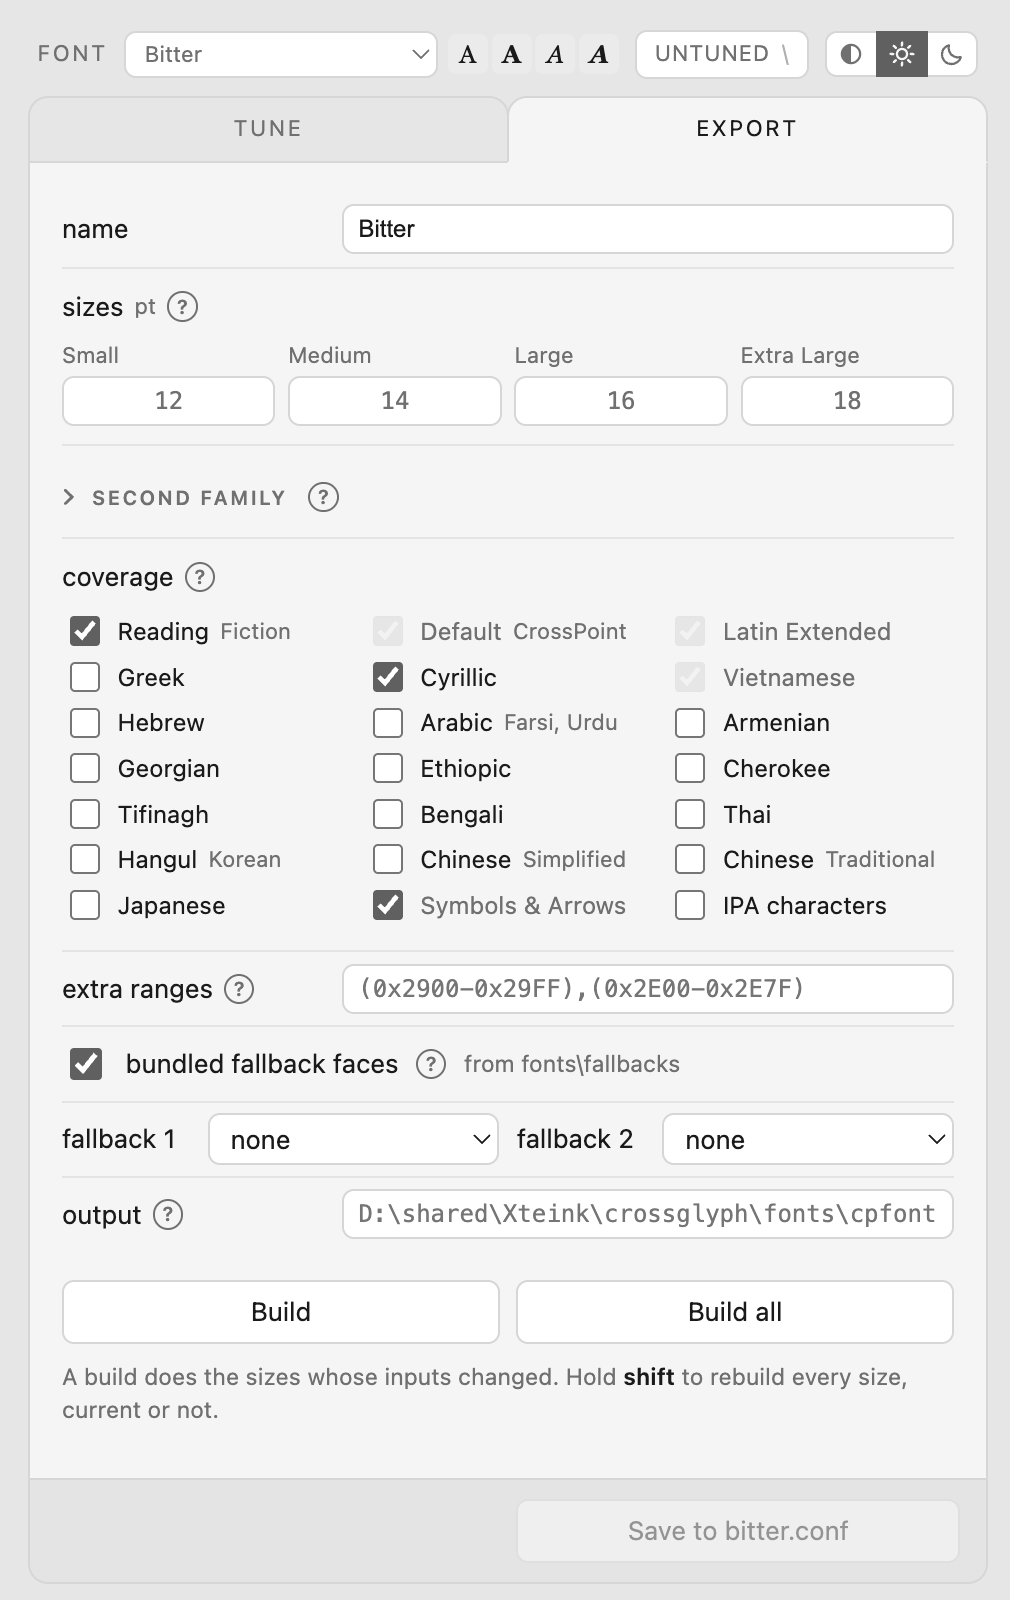
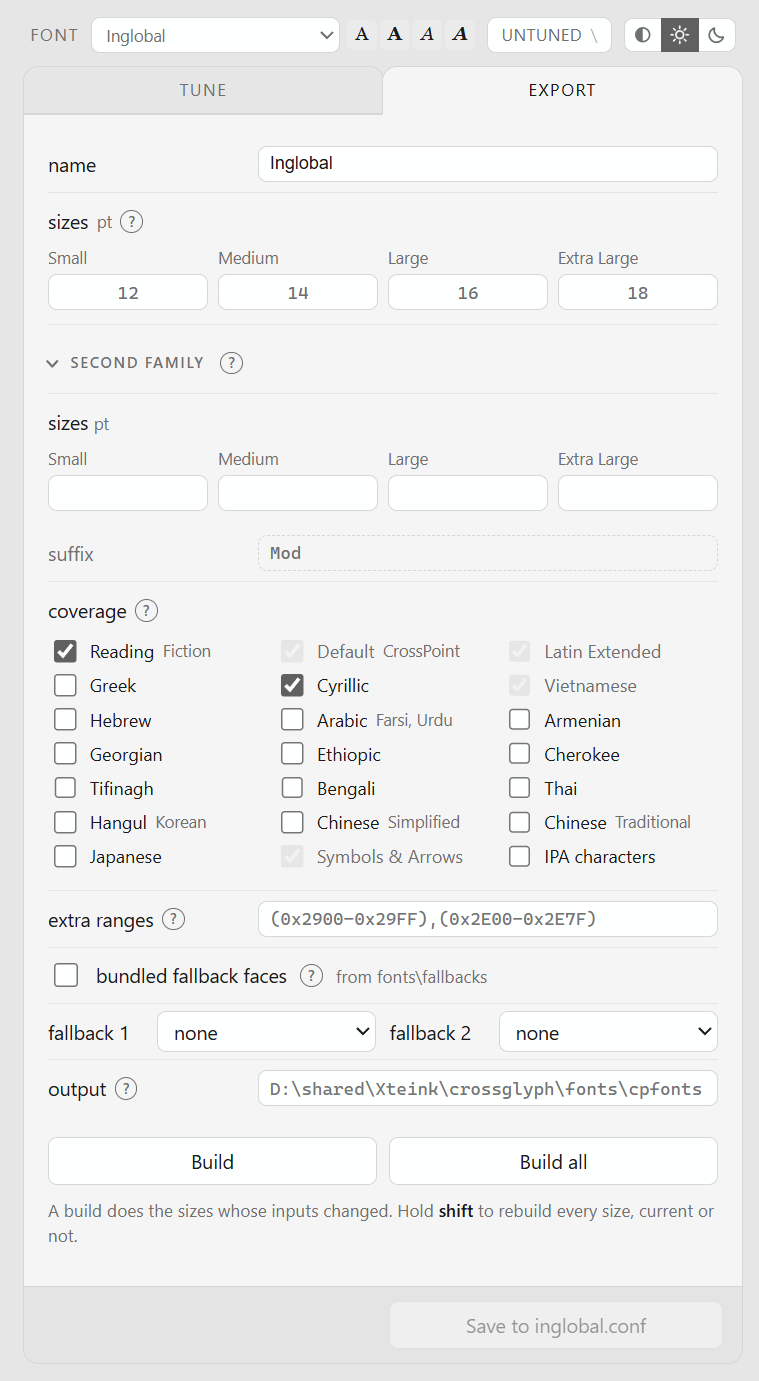
fix(preview): wrap only when measured columns overflow
Measure the rendered reader column instead of folding at a DPR-1 worst-case
breakpoint. The preview stays beside Tune while both tracks fit, stacks without
horizontal overflow when they do not, and restores after expansion even when
the stacked layout introduced a scrollbar.

Refresh the Tune, device preview, and Export documentation images. Refetch the
annotated tag object in the release gate because checkout records its peeled
commit at the tag ref.

Verified with the browser module harness, focused breakpoint and tag-object
regressions, GitHub Markdown rendering, Chrome across every device, frame, and
scale combination, and the complete Windows real-font suite: 927 passed with
three expected platform skips.

diff --git a/src/crossglyph/preview/static/js/device.js b/src/crossglyph/preview/static/js/device.js
@@ -21,6 +21,21 @@ const calibrationSlider = document.getElementById("device-calibration-slider");
 const ruler = document.getElementById("device-ruler");
 const reset = document.getElementById("reset-device");
 
+const root = document.documentElement;
+
+
+function syncPreviewColumns() {
+  // Ask the actual grid. Reader model, frame, scale, DPR and viewport height
+  // all change its intrinsic width, so a fixed viewport breakpoint cannot.
+  // Read the viewport after trying two columns: stacking may add a vertical
+  // scrollbar, and its narrower width must not prevent expansion restoring.
+  root.dataset.previewColumns = "two";
+  const available = Number(root?.clientWidth);
+  if (!available) return;
+  root.dataset.previewColumns =
+    Number(root.scrollWidth) > available ? "one" : "two";
+}
+
 // Geometry is in each normalized frame PNG's own pixels. The assets correct the
 // source renders to the documented body aspect and carry an aperture with the
 // native screen aspect. Runtime scaling is therefore one uniform factor.
@@ -123,6 +138,7 @@ export function layoutDevice() {
   frame.style.height = `${device.frame.height * factor}px`;
   surface.style.transform = "";
   alignPixelGrid();
+  syncPreviewColumns();
 }
 
 function tone(value, low, high) {

diff --git a/src/crossglyph/preview/static/style.css b/src/crossglyph/preview/static/style.css
@@ -119,6 +119,22 @@
     /* The mark says "something happened in there while you were elsewhere",
        so it has nothing to say about the panel you are looking at. */
     :root[data-panel="export"] #tab-busy { display: none; }
+
+    /* The query below is the no-script first layout. Once the reader has been
+       sized, device.js tries these two tracks and keeps them only when their
+       measured width fits the viewport. */
+    :root[data-preview-columns="two"] body {
+      grid-template-columns: 30rem min-content;
+      grid-template-areas:
+        "chrome page"
+        "tabs   page"
+        "panel  page"
+        "save   page";
+    }
+    :root[data-preview-columns="one"] body {
+      grid-template-columns: 30rem;
+      grid-template-areas: "chrome" "tabs" "panel" "save" "page";
+    }
   }
 
   /* Narrower than the panel and the widest reader frame side by side: one

diff --git a/tests/test_release.py b/tests/test_release.py
@@ -14,6 +14,45 @@ import pytest
 
 REPO = pathlib.Path(__file__).resolve().parents[1]
 
+
+def test_release_job_refetches_tag_object(tmp_path):
+    """The annotation is the release body, so the gate restores its object."""
+    workflow = (REPO / ".github" / "workflows" / "release.yml").read_text()
+    gate = workflow[workflow.index("      - name: The tag carries"):
+                    workflow.index("      - uses: astral-sh/setup-uv")]
+    assert "git fetch --force --depth=1 origin" in gate
+    assert "refs/tags/$GITHUB_REF_NAME:refs/tags/$GITHUB_REF_NAME" in gate
+
+    source, checkout = tmp_path / "source", tmp_path / "checkout"
+    source.mkdir()
+
+    def git(*args, cwd):
+        return subprocess.run(
+            ["git", *args], cwd=cwd, check=True, capture_output=True,
+            text=True).stdout.strip()
+
+    git("init", "-q", cwd=source)
+    git("-c", "commit.gpgSign=false", "-c", "user.name=CrossGlyph",
+        "-c", "user.email=test@example.invalid", "commit", "--allow-empty",
+        "-m", "release", cwd=source)
+    git("-c", "tag.gpgSign=false", "-c", "user.name=CrossGlyph",
+        "-c", "user.email=test@example.invalid", "tag", "-a", "v1.0.0",
+        "-m", "notes", cwd=source)
+    commit = git("rev-parse", "v1.0.0^{}", cwd=source)
+
+    checkout.mkdir()
+    git("init", "-q", cwd=checkout)
+    git("remote", "add", "origin", str(source), cwd=checkout)
+    git("fetch", "--no-tags", "--depth=1", "origin",
+        f"+{commit}:refs/tags/v1.0.0", cwd=checkout)
+    assert git("cat-file", "-t", "v1.0.0", cwd=checkout) == "commit"
+
+    git("fetch", "--force", "--depth=1", "origin",
+        "refs/tags/v1.0.0:refs/tags/v1.0.0", cwd=checkout)
+    assert git("cat-file", "-t", "v1.0.0", cwd=checkout) == "tag"
+    assert git("for-each-ref", "--format=%(contents)", "refs/tags/v1.0.0",
+               cwd=checkout).startswith("notes")
+
 _spec = importlib.util.spec_from_file_location(
     "make_release", REPO / "tools" / "make-release.py")
 assert _spec and _spec.loader

diff --git a/tests/test_preview_server.py b/tests/test_preview_server.py
@@ -936,15 +936,14 @@ def test_save_is_reachable_from_either_panel():
 
 
 def test_the_breakpoints_fit_what_they_lay_out():
-    """The page shows three columns above a width, two below it and one below
-    that. Both widths are arithmetic -- the panels, the widest reader frame,
-    the stage around it, the gaps between them and the page's padding -- and
-    nothing recomputes them: widen a panel or frame and the breakpoint has to
-    move with it, or the page overflows horizontally.
+    """The no-script page shows three columns above a width, two below it and
+    one below that. Once the device module has measured the reader it may keep
+    two columns below the fallback breakpoint, but both fixed widths must
+    remain safe before that script runs.
 
-    Neither of the other suites can see this. The probe drives a stub DOM with
-    no stylesheet, and a browser would have to be opened at exactly the wrong
-    width to catch it.
+    Neither of the other suites can see the stylesheet. The module probe does
+    cover the measured one/two-column decision, while this check ties its
+    states to CSS and verifies the fallback arithmetic.
     """
     import re
 
@@ -954,6 +953,9 @@ def test_the_breakpoints_fit_what_they_lay_out():
     html = (server.STATIC / "index.html").read_text(encoding="utf-8")
     device_js = (server.STATIC / "js" / "device.js").read_text(
         encoding="utf-8")
+    for columns in ("one", "two"):
+        assert f':root[data-preview-columns="{columns}"] body' in css
+    assert "root.dataset.previewColumns" in device_js
 
     def rem(pattern: str, text: str) -> float:
         found = re.search(pattern, text)

diff --git a/README.md b/README.md
@@ -10,13 +10,12 @@ guess cost a card swap or an emulator run, so almost nobody went past changing
 the point size.
 
 <p align="center">
-  <a href="docs/images/tune.png"><img src="docs/images/tune.png" width="64%"
-     alt="The tune panel beside the page it draws: size, gamma, weight,
-          spacing, kerning, hinting and figures, with the specimen showing
-          roman, italic and bold"></a>
-  <a href="docs/images/export.png"><img src="docs/images/export.png" width="33%"
-     alt="The export panel: four point sizes, coverage chosen by script, extra
-          codepoint ranges, fallback faces and the output folder"></a>
+  <a href="docs/images/tune.png"><img src="docs/images/tune.png" width="32%"
+     alt="The Tune panel with font and page controls"></a>
+  <a href="docs/images/preview.png"><img src="docs/images/preview.png" width="32%"
+     alt="A rendered page inside the white Xteink X4 frame"></a>
+  <a href="docs/images/export.png"><img src="docs/images/export.png" width="32%"
+     alt="The Export panel with sizes, coverage, fallbacks and build controls"></a>
 </p>
 
 - the firmware's own renderer, its C++ compiled to WebAssembly, so the page is

diff --git a/docs/preview.md b/docs/preview.md
@@ -1,10 +1,8 @@
 # The preview
 
 <p align="center">
-  <a href="images/tune.png"><img src="images/tune.png" width="64%"
-     alt="The tune panel beside the page it draws"></a>
-  <a href="images/export.png"><img src="images/export.png" width="33%"
-     alt="The export panel"></a>
+  <a href="images/preview.png"><img src="images/preview.png" width="50%"
+     alt="A rendered page inside the white Xteink X4 frame, with the device preview controls below"></a>
 </p>
 
 ```sh
@@ -233,12 +231,6 @@ looking at a font both ways, since a face that is comfortable in black on
 white can read heavy in white on black.
 
 ### Device preview
-
-<p align="center">
-  <a href="images/device-preview.png"><img src="images/device-preview.png"
-     width="50%"
-     alt="A rendered page inside the white Xteink X4 frame, with the device preview controls below"></a>
-</p>
 
 The **Device preview** under the page puts the rendered screen into an X3 or
 X4 body. It starts folded. X4 is the default; choosing X3 redraws at its native
